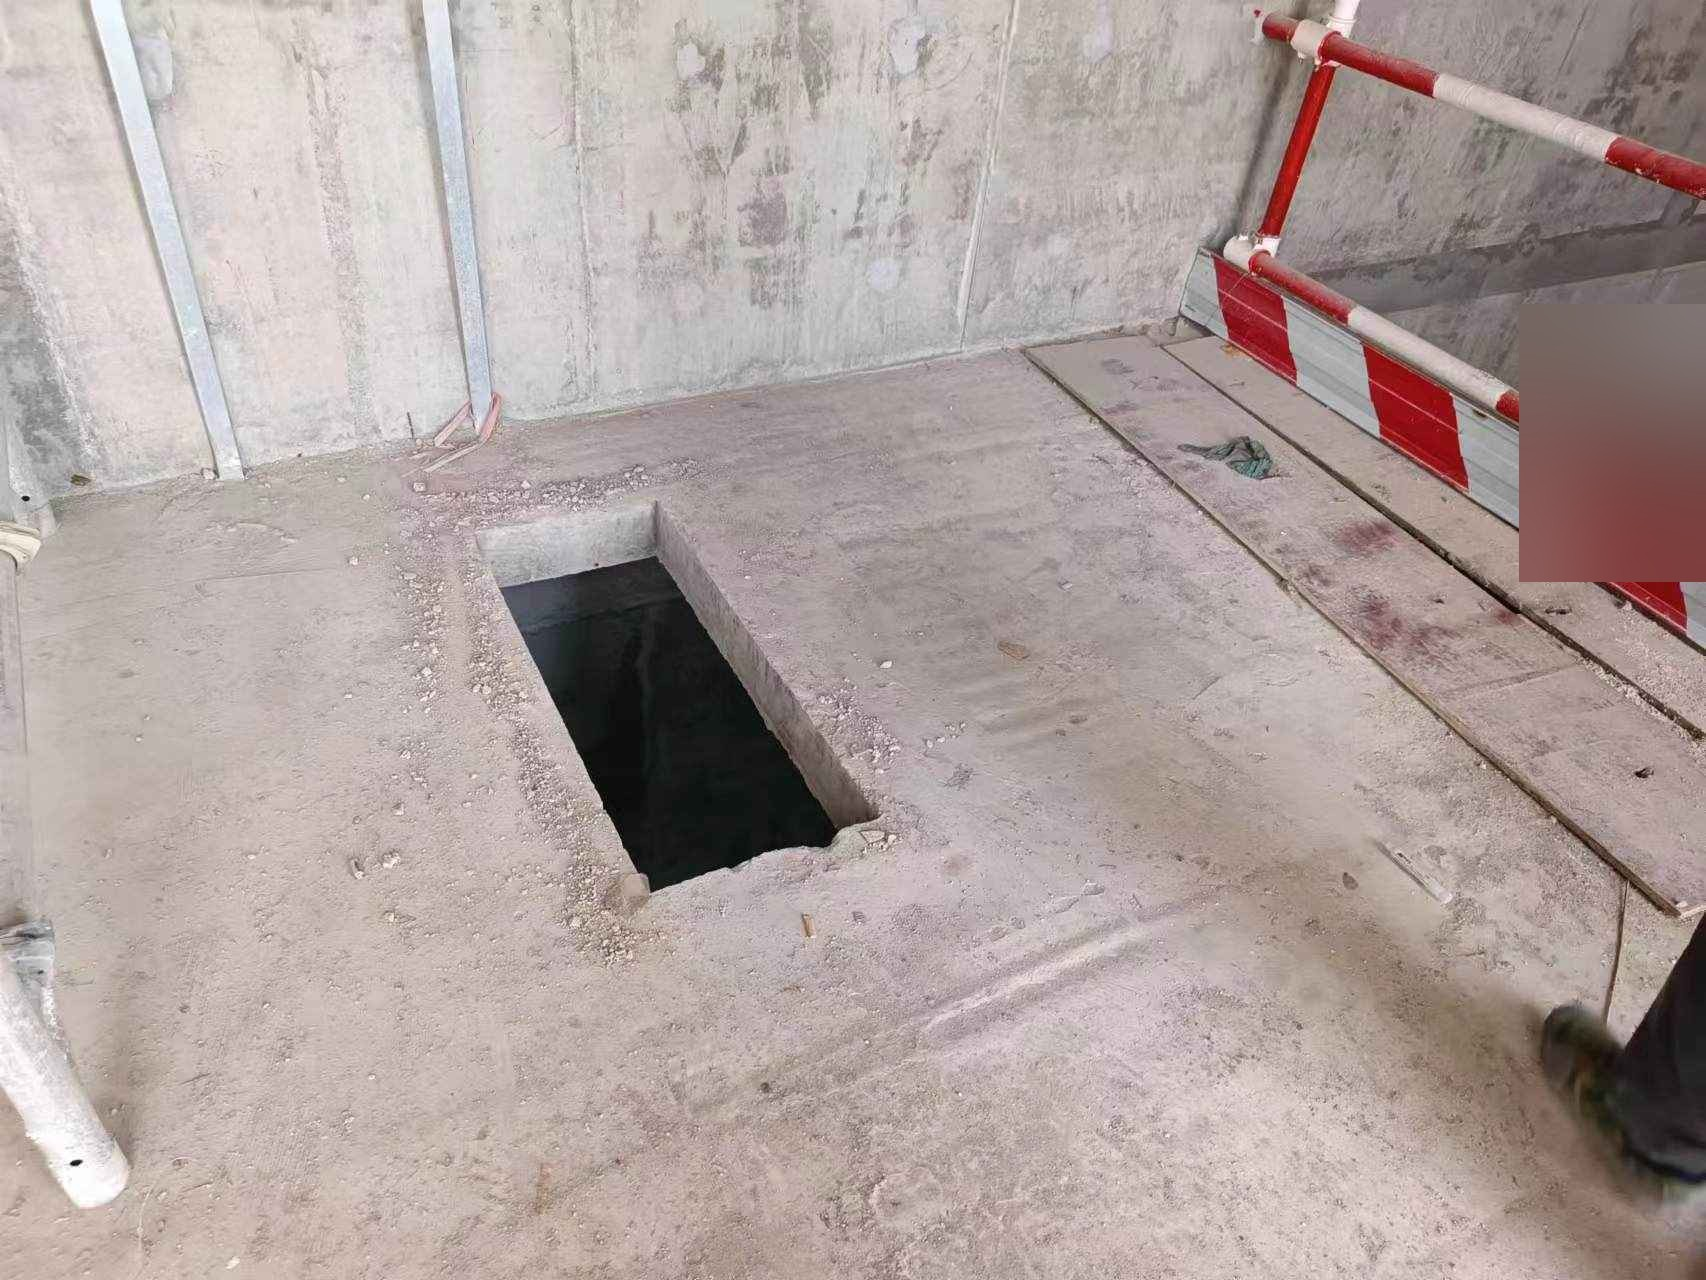
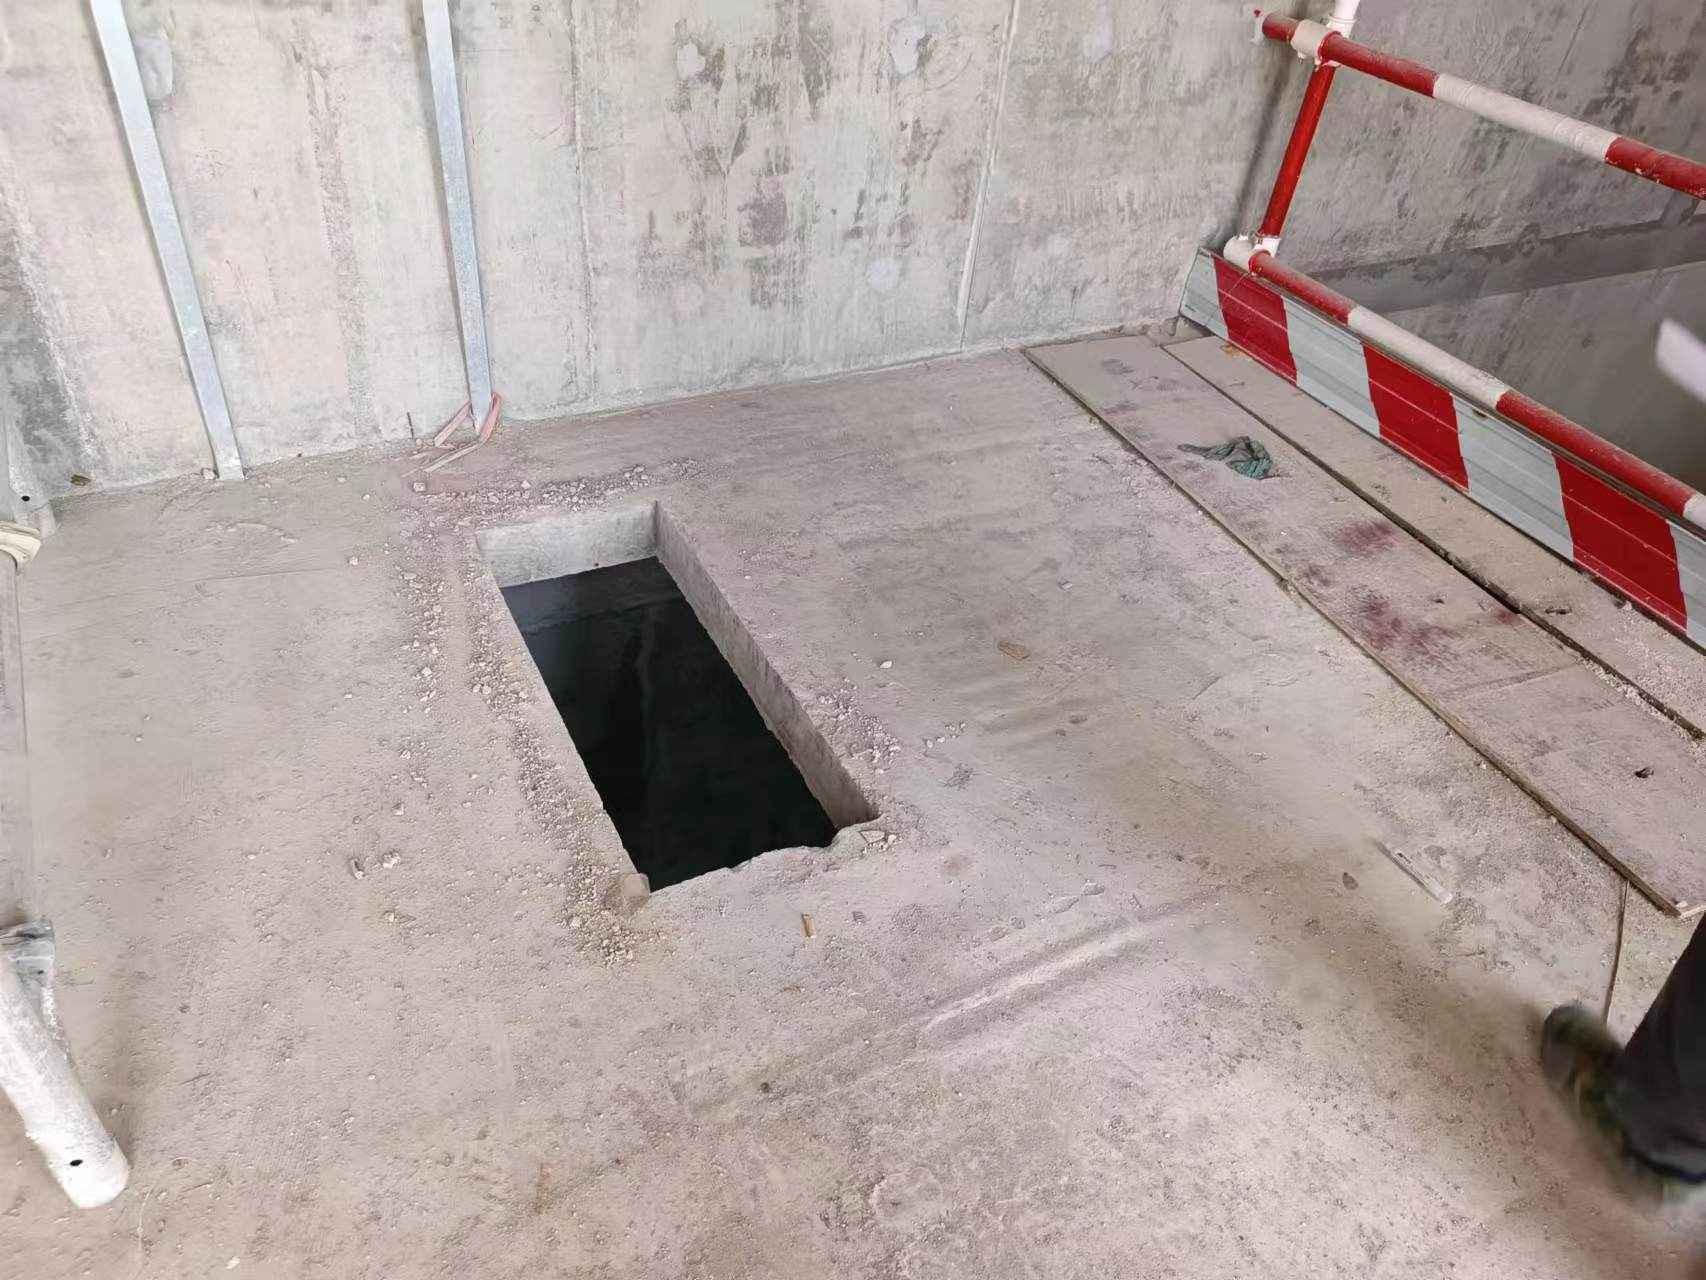
fix: blur only faces and identifying text in samples P021-P040
The v2.1.0 export blurred whole heads and the top 30% of every person box,
hiding helmets and vests the screening rules check. Faces (helmet brim to
chin) and company/site text now get hand-drawn boxes with one lighter
Gaussian blur; a person detector only checks that no visible face is missed.

Changed region(s): [[0.8699, 0.25, 1.0, 0.4688]]

diff --git a/examples/README.md b/examples/README.md
@@ -11,25 +11,27 @@ demonstration set, not an evaluation set. SHA-256 checksums and dimensions are i
 
 - **P001–P020** were chosen to contain no identifiable individuals or label-bearing markings,
   and were reviewed by hand.
-- **P021–P040** include workers, so they are anonymised with a Gaussian blur. Each image blurs:
-  - every head found by a hard-hat/head detector, at low confidence, with the box padded by 35%;
-  - the top 30% of every person found by a COCO person detector, as a second net for missed heads;
-  - hand-drawn boxes over text that could identify a company, site or device: names on vests,
-    brand names on formwork, posted documents, site signage and a camera watermark. Each box was
-    drawn while viewing the image at full resolution.
+- **P021–P040** include workers, so their faces are blurred. Only what could identify someone is
+  blurred, with boxes drawn by hand while viewing each image at full resolution:
+  - each visible face, from the helmet brim to the chin. The helmet, vest, harness and posture
+    stay visible, because they are what the screening rules check;
+  - text that names a company or the site: names and logos on vests and helmets, a posted
+    document, company signs and a hotel sign. Generic safety slogans (for example 当心坠落,
+    "beware of falling") and product brands stay readable.
 
-  Every region gets a two-pass Gaussian blur with sigma = max(8 px, 0.25 × the region's shorter
-  side), so larger regions get a stronger blur. The export checks the pixels and refuses to write
-  an image that fails:
-  - in every region, the residual detail (variance of the Laplacian) must fall to at most 0.10 of
-    the original. The largest ratio across the 20 images is 0.025;
-  - every pixel outside the regions must be unchanged. The count is 0 for all 20;
+  Each box gets one Gaussian blur with sigma = 0.15 × the box's shorter side for a face and
+  0.30 × for text, at least 3 px. At most 1.4% of any image is blurred. The export checks
+  the result and refuses to write an image that fails:
+  - a person detector must find no person without a face box, unless a reason is recorded (seen
+    from behind, head out of frame, or a head a few pixels tall). Seven people are recorded this
+    way;
+  - in every box, the residual detail (variance of the Laplacian) must fall to at most 0.10 of
+    the original. The largest ratio across the 20 images is 0.074;
+  - every pixel outside the boxes must be unchanged. The count is 0 for all 20;
   - the file is re-encoded from pixels (JPEG q90) and read back to confirm it carries no
     EXIF, ICC profile or comment.
 
-  `sample_images/anonymisation.json` records the region count, their kinds and these checks for
-  each image. Generic safety slogans (for example 当心坠落, "beware of falling") are left
-  readable because they are part of what a screener sees.
+  `sample_images/anonymisation.json` records these counts and checks for each image.
 
 ## RCASR guide: screen images with the frozen configuration the robot runs
 
